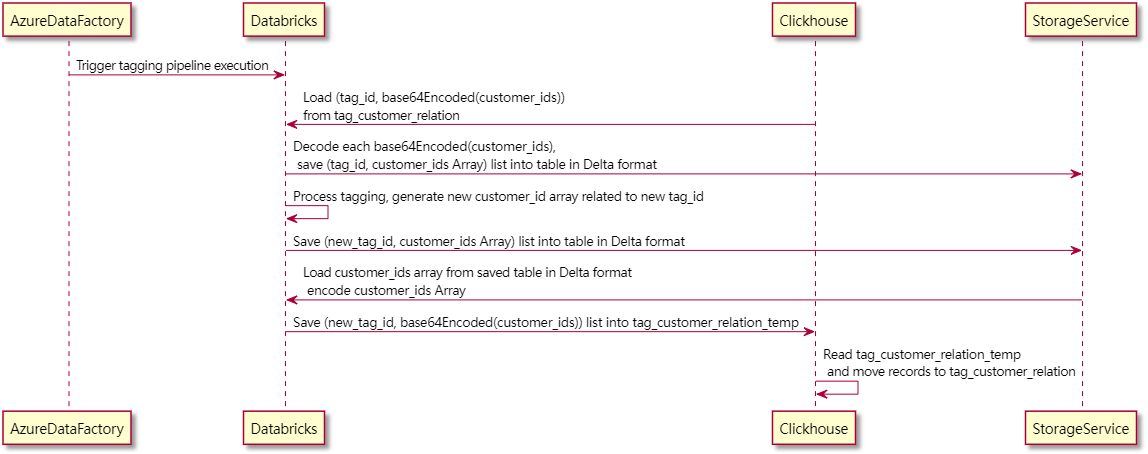
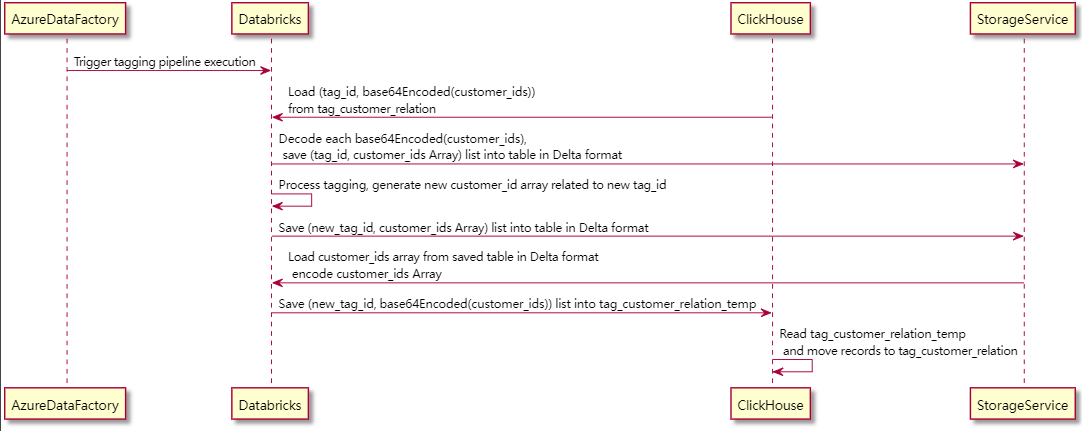
feat: minor fix

diff --git a/processing_bitmap_between_clickhouse_and_databricks_en.md b/processing_bitmap_between_clickhouse_and_databricks_en.md
@@ -1,30 +1,30 @@
-# Read & Write Clickhouse Bitmap in Databricks
+# Read & Write ClickHouse Bitmap in Databricks
 
 ## PROBLEM DESCRIPTION
 
-We have a tagging system which has been expected to take 5 minutes for customer id bitmap generation. However 70 minutes was spent by the previous approach, by processing bitmap serialization directly, we now hit 2 minutes with ease.
+We have a tagging system which expected to take 5 minutes for customer id bitmap generation, but the previous approach spent 70 minutes. By processing bitmap serialization directly, we now hit 2 minutes with ease.
 
-With previous approach, we have to parse each customer id collection twice to support union and intersection between two customer id collection, and it would spend lots of time to sync collection between Clickhouse and Databricks.
+With the previous approach, each customer id collection was parsed twice to support Union and Intersection between two customer id collections. It also spends lots of time in synchronization between ClickHouse and Databricks.
 
 ![previous_approach](./processing_bitmap_between_clickhouse_and_databricks/previous_approach.png)
 
 ```plantuml
 @startuml Previous approach
 AzureDataFactory -> Databricks : Trigger tagging pipeline execution
-Databricks -> Clickhouse : Generate (tag_id, customer_id) list from tag_customer_relation for each tag\n and insert into tag_{tag_id}_customer_relation in Clickhouse
-Databricks <- Clickhouse : Load (tag_id, customer_id) list \nfrom tag_{tag_id}_customer_relation
+Databricks -> ClickHouse : Generate (tag_id, customer_id) list from tag_customer_relation for each tag\n and insert into tag_{tag_id}_customer_relation in ClickHouse
+Databricks <- ClickHouse : Load (tag_id, customer_id) list \nfrom tag_{tag_id}_customer_relation
 Databricks -> StorageService : Save (tag_id, customer_id) list into table in Delta format
 Databricks <- StorageService : Load customer_id array from saved table in Delta format
 Databricks -> Databricks : Process tagging, generate new customer_id array related to new tag_id
 Databricks -> StorageService : Save (new_tag_id, customer_id) list into table in Delta format
 StorageService -> Databricks :  Load customer_id array from saved table in Delta format
-Databricks -> Clickhouse : Save (new_tag_id, customer_id) list into tag_{new_tag_id}_customer_relation
-Clickhouse -> Clickhouse : Generate bitmap from tag_{new_tag_id}_customer_relation\n and insert into tag_customer_relation
+Databricks -> ClickHouse : Save (new_tag_id, customer_id) list into tag_{new_tag_id}_customer_relation
+ClickHouse -> ClickHouse : Generate bitmap from tag_{new_tag_id}_customer_relation\n and insert into tag_customer_relation
 @enduml
 ```
 
 Customer tagging relation is saved as following schema(version column is ignored):
-###### tag_customer_relation table in Clickhouse
+###### tag_customer_relation table in ClickHouse
 | Name               | Type | Description                                                     |
 | ------------------ | -------- | ------------------------------------------------------------ |
 | tag_id             | Int64   | Business tag id, created in Java server                            |
@@ -36,7 +36,7 @@ CREATE TABLE tag_customer_relation_local ON CLUSTER `default_cluster`
   tag_id Int64,
   customer_ids AggregateFunction(groupBitmap, Int64)
 )
-ENGINE = ReplicatedReplacingMergeTree('/clickhouse/tables/{shard}/{uuid}', '{replica}') 
+ENGINE = ReplicatedReplacingMergeTree('/ClickHouse/tables/{shard}/{uuid}', '{replica}') 
 ORDER BY (tag_id)
 SETTINGS index_granularity = 8192;
 
@@ -48,22 +48,22 @@ CREATE TABLE tag_customer_relation_distributed ON CLUSTER `default_cluster`
 ENGINE = Distributed('default_cluster', 'default', 'tag_customer_relation_local', tag_id)
 ```
 
-However, customer_id collection is generated in Databricks. Since "bitmap" in Clickhouse is not exist in Databricks, we have to flat map customer id collection related to tag_id, and save the Dataframe with the following schema into Clickhouse:
+However, all customer_ids result was calculated in Databricks. Since "bitmap" in ClickHouse is not exist in Databricks, we have to flat map customer id collection related to tag_id, and save the Dataframe with the following schema into ClickHouse:
 ###### tag_{tag_id}_customer_relation Dataframe schema
 | Name               | Type | Description                                                     |
 | ------------------ | -------- | ------------------------------------------------------------ |
 | tag_id             | Int64   | Business tag id, created in Java server       |
 | customer_id          | Int64   | Member id related to this tag  |
 
-Before processing the tag relation notebook in Databricks, each customer_id bitmap would be mapped to tag_{tag_id}_customer_relation in Clickhouse and loaded by spark JDBC in Databricks.
+Before processing the tag relation notebook in Databricks, each customer_id bitmap was mapped to tag_{tag_id}_customer_relation in ClickHouse and loaded by spark JDBC in Databricks.
 
-## BITMAP IN CLICKHOUSE
+## BITMAP IN ClickHouse
 
-Clickhouse processing bitmap with CRoaring, but there is no Java implementation for CRoaring. We can look into how Clickhouse read/write bitmap:
+ClickHouse processing bitmap with CRoaring, but there is no Java implementation for CRoaring. We can look into how ClickHouse reads and writes bitmap:
 
-![bitmap_in_clickhouse](./processing_bitmap_between_clickhouse_and_databricks/bitmap_write_in_clickhouse.png)
+![bitmap_in_ClickHouse](./processing_bitmap_between_ClickHouse_and_databricks/bitmap_write_in_ClickHouse.png)
 
-![bitmap_write](./processing_bitmap_between_clickhouse_and_databricks/bitmap_write.png)
+![bitmap_write](./processing_bitmap_between_ClickHouse_and_databricks/bitmap_write.png)
 
 ```plantuml
 @startuml bitmap write
@@ -81,9 +81,9 @@ end
 @enduml
 ```
 
-Clickhouse doesn't provide API to create bitmap from ByteArray in newest version, so we have to insert base64encoded string into Clickhouse, and decode it in Clickhouse.
+ClickHouse doesn't provide API to create Bitmap from ByteArray in the current version, so we must insert Base64 encoded string into ClickHouse, and decode it in ClickHouse.
 
-#### Write bitmap into Clickhouse
+#### Write bitmap into ClickHouse
 ```sql
 CREATE TABLE tag_customer_relation_local_temp ON CLUSTER `default_cluster` 
 (
@@ -92,7 +92,7 @@ CREATE TABLE tag_customer_relation_local_temp ON CLUSTER `default_cluster`
   customer_ids AggregateFunction(groupBitmap, Int64) 
                 MATERIALIZED base64Decode(customer_id_str)
 )
-ENGINE = ReplicatedReplacingMergeTree('/clickhouse/tables/{shard}/{uuid}', '{replica}') 
+ENGINE = ReplicatedReplacingMergeTree('/ClickHouse/tables/{shard}/{uuid}', '{replica}') 
 ORDER BY (tag_id)
 SETTINGS index_granularity = 8192;
 
@@ -109,7 +109,7 @@ insert into tag_customer_relation_distributed_temp(tag_id, customer_id_str) valu
 insert into tag_customer_relation_distributed(tag_id, customer_ids) select tag_id, customer_ids from tag_customer_relation_distributed_temp
 ```
 
-### Read bitmap from Clickhouse
+### Read bitmap from ClickHouse
 ```sql
 select tag_id, base64encode(toString(customer_ids)) from tag_customer_relation_distributed
 ```
@@ -119,7 +119,7 @@ select tag_id, base64encode(toString(customer_ids)) from tag_customer_relation_d
 
 Roaring64NavigableMap is a Java Int64 bitmap implementation class preloaded in Databricks. It's reasonable to do serialization/deserialization with this class.
 
-![bitmap_serialize](./processing_bitmap_between_clickhouse_and_databricks/Roaring64NavigableMap_serialize.png)
+![bitmap_serialize](./processing_bitmap_between_ClickHouse_and_databricks/Roaring64NavigableMap_serialize.png)
 
 ```plantuml
 @startuml Roaring64NavigableMap serialize
@@ -133,18 +133,18 @@ end
 
 ## APPROACH WITH ENCODED BITMAP
 
-![current_approach](./processing_bitmap_between_clickhouse_and_databricks/current_approach.png)
+![current_approach](./processing_bitmap_between_ClickHouse_and_databricks/current_approach.png)
 
 ```plantuml
 @startuml Approach based on processing bitmap string encode
 AzureDataFactory -> Databricks : Trigger tagging pipeline execution
-Databricks <- Clickhouse : Load (tag_id, base64Encoded(customer_ids)) \nfrom tag_customer_relation
+Databricks <- ClickHouse : Load (tag_id, base64Encoded(customer_ids)) \nfrom tag_customer_relation
 Databricks -> StorageService : Decode each base64Encoded(customer_ids),\n save (tag_id, customer_ids Array) list into table in Delta format
 Databricks -> Databricks : Process tagging, generate new customer_id array related to new tag_id
 Databricks -> StorageService : Save (new_tag_id, customer_ids Array) list into table in Delta format
 StorageService -> Databricks :  Load customer_ids array from saved table in Delta format\n encode customer_ids Array
-Databricks -> Clickhouse : Save (new_tag_id, base64Encoded(customer_ids)) list into tag_customer_relation_temp
-Clickhouse -> Clickhouse : Read tag_customer_relation_temp\n and move records to tag_customer_relation
+Databricks -> ClickHouse : Save (new_tag_id, base64Encoded(customer_ids)) list into tag_customer_relation_temp
+ClickHouse -> ClickHouse : Read tag_customer_relation_temp\n and move records to tag_customer_relation
 @enduml
 ```
 
@@ -262,15 +262,15 @@ def deserialize(input: String): Roaring64NavigableMap = {
 }
 ```
 
-** Both tested in Azure Databricks with Spark 2.4.5, Clickhouse 21.8
+** Both tested in Azure Databricks with Spark 2.4.5, ClickHouse 21.8
 
 ## CONCLUSION
 
-The approach here is not an official way to create bitmap object in Clickhouse, so it brings more works during upgrade Clickhouse version. However, comparing with bitmap aggregation in Clickhouse, the approach saves lots of time and io bandwidth, which is very helpful to optimize the execution of the tagging progress in Databricks.
+The approach here is not an official way to create Bitmap in ClickHouse, so it makes ClickHouse version upgrading is being more complicated. Compared with the previous one, the approach here saves lots of time and io bandwidth, which is very helpful to optimize the execution of the tagging progress in Databricks.
 
 
 ## REFERENCES
 
 1. [SparkSQL & ClickHouse RoaringBitmap使用实践](https://blog.csdn.net/qq_27639777/article/details/111005838)
-2. [Bitmap read/write implementation in Clickhouse](https://github.com/ClickHouse/ClickHouse/blob/master/src/AggregateFunctions/AggregateFunctionGroupBitmapData.h#L112)
+2. [Bitmap read/write implementation in ClickHouse](https://github.com/ClickHouse/ClickHouse/blob/master/src/AggregateFunctions/AggregateFunctionGroupBitmapData.h#L112)
 3. [SparkSQL & ClickHouse RoaringBitmap64格式支持](https://blog.csdn.net/fz1989/article/details/117222801)

diff --git a/multiple_table_related_query_in_clickhouse_cn.md b/multiple_table_related_query_in_clickhouse_cn.md
@@ -16,6 +16,15 @@
 5. 支持customer关联customer_channel_relation及channel的会员品牌关联查询
 6. channel表记录个数在20以内
 7. customer、customer_identity、customer_channel_relation、channel表存在一个定时任务从MySQL将记录抽取至Clickhouse
+![sync_data](./multiple_table_related_query_in_clickhouse/sync_data_from_mysql_to_clickhouse.png)
+```plantuml
+@startuml Sync customer data from MySQL to Clickhouse
+XXLJOBServer -> JavaServer : Trigger scheduled function for data synchronization
+JavaServer -> Clickhouse : Execute SQL to fetch customer data from MySQL(insert into statement)
+Clickhouse <- MySQL : Fetch all sharded customer data
+JavaServer -> Clickhouse : Execute SQL to merge same customer records to one record(optimize statement)
+@enduml
+```
 8. customer表需要支持千万级数据
 9. customer、customer_identity、customer_channel_relation、channel表的表引擎都是ReplicatedReplacingMergeTree
 

diff --git a/multiple_table_related_query_in_clickhouse_en.md b/multiple_table_related_query_in_clickhouse_en.md
@@ -1,0 +1,5 @@
+# Multi-table related query in ClickHouse
+
+## INTRODUCTION
+
+We have a tagging system which storing tens of millions of customer data, and has been expected to take few seconds to query customer list with criteria which across multiple tables.
